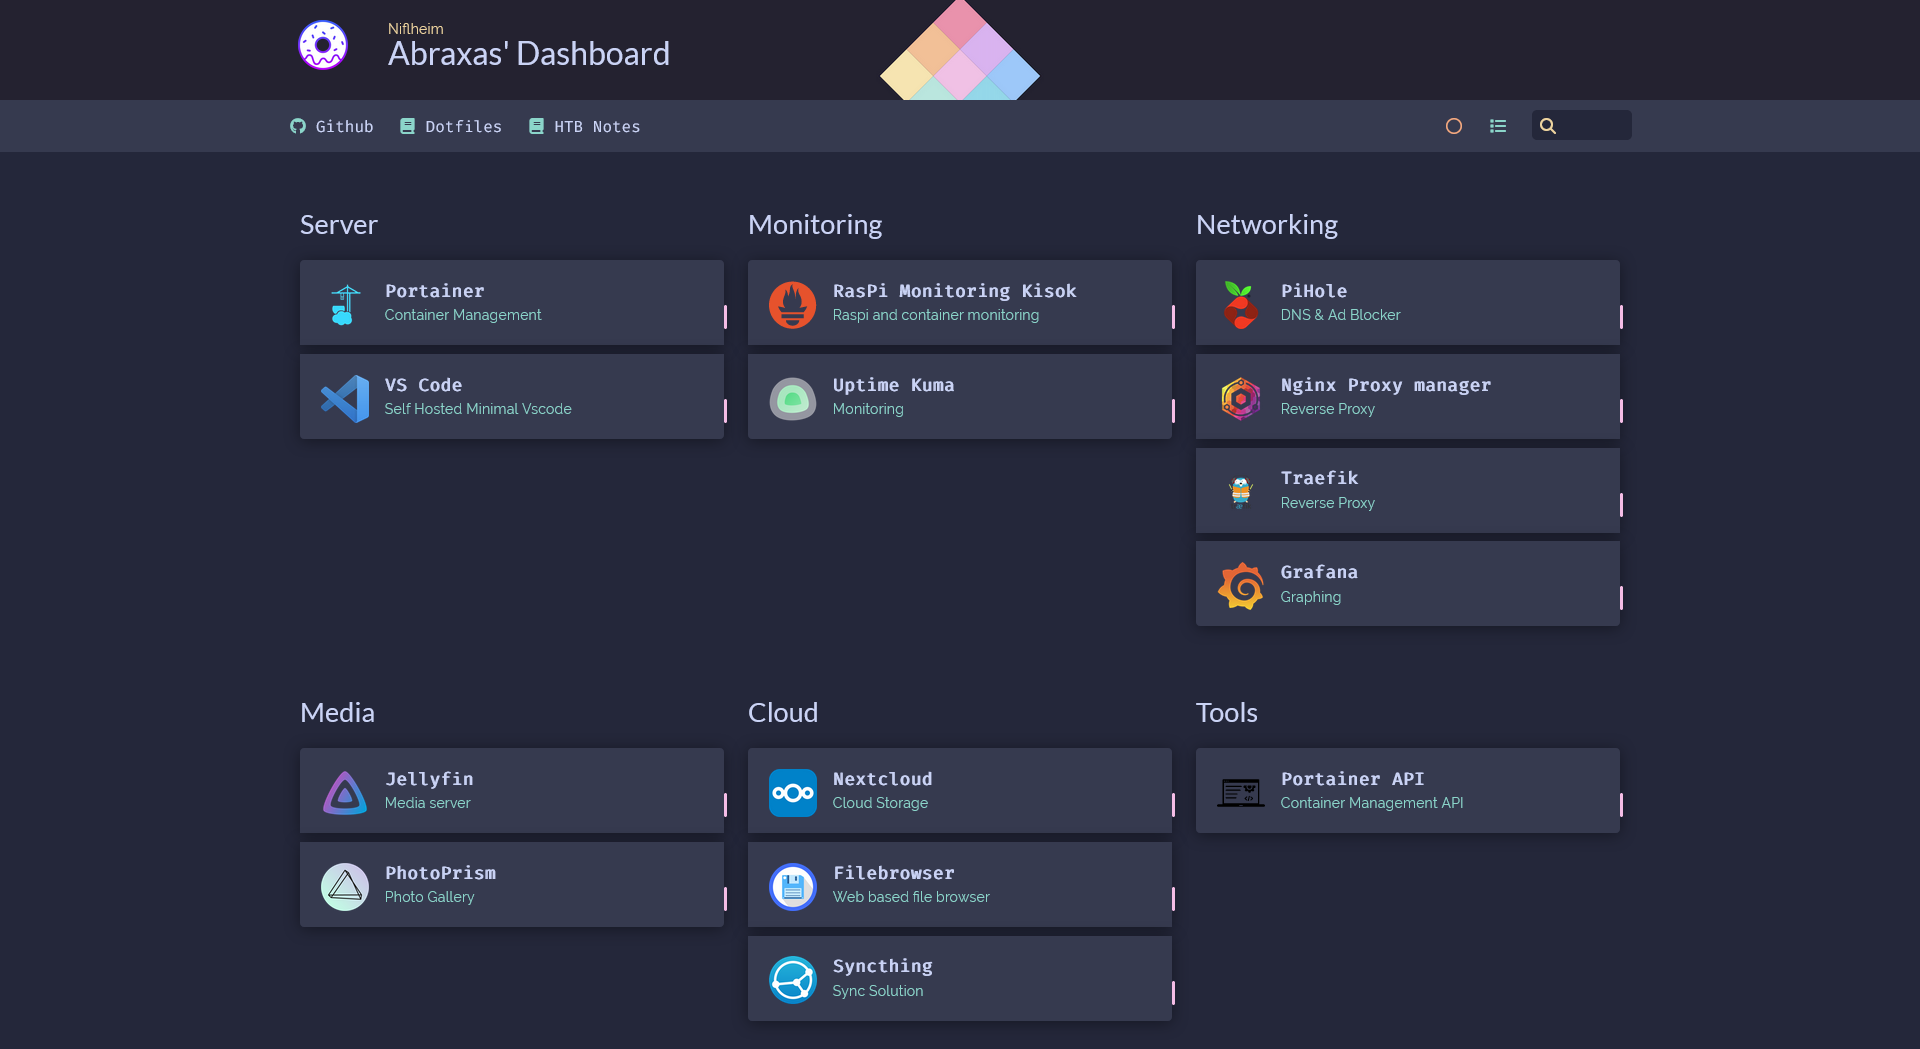
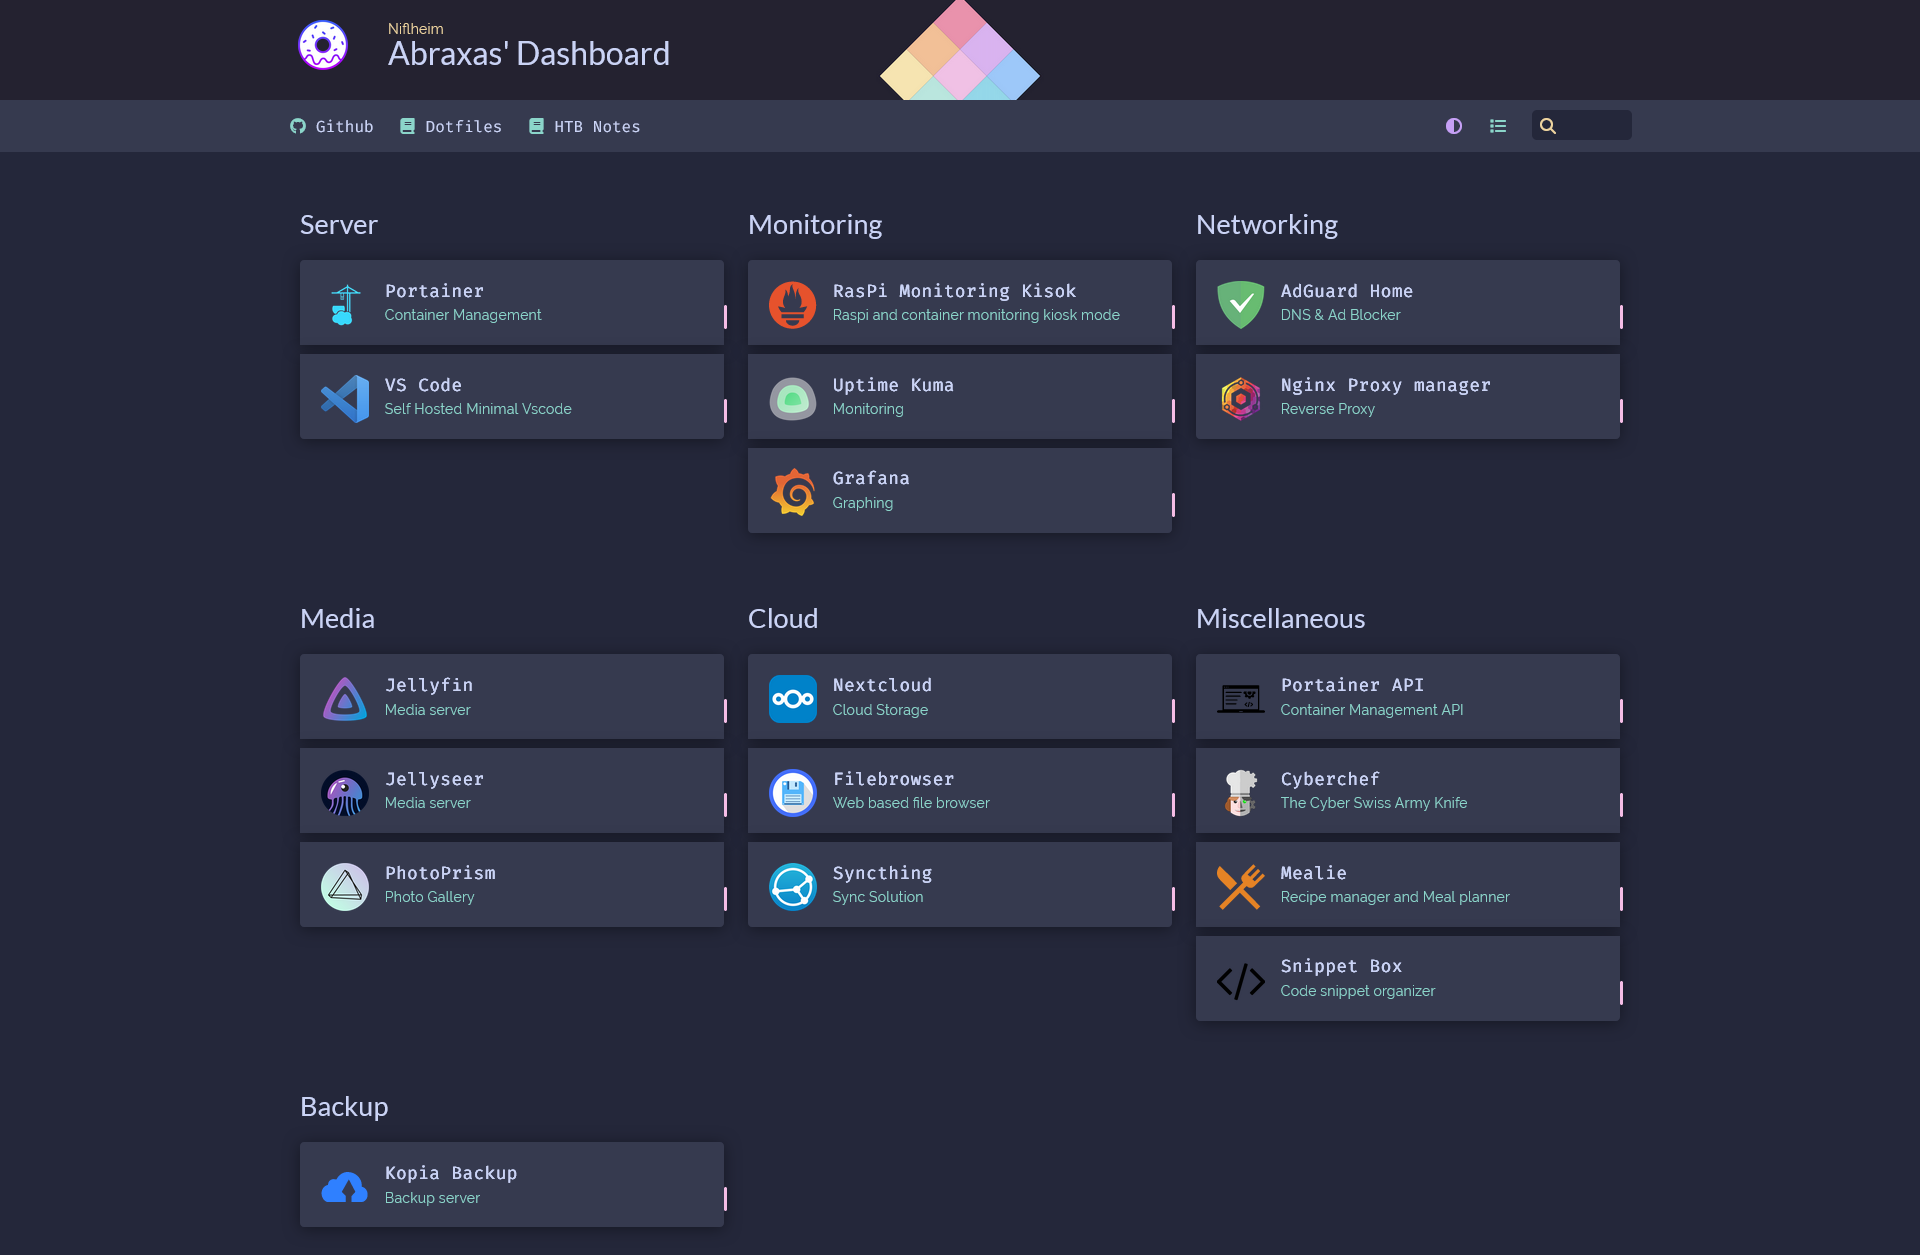
Update readme for arm devices cgroup bug
Update dashboard image and todos

diff --git a/README.md b/README.md
@@ -50,6 +50,20 @@ docker-compose up -d --force-recreate --remove-orphans
 
 Some conatiners need a `.env` file, there's a `.env.example` file to refer to for that. Same goes for `config.yml` if required
 
+### Docker cgroup mnemory issue fix
+
+On arm devices, enabling cgroud memory doesn't take effect.
+Adding this to `/boot/cmdline.txt` and rebooting should help fix the issue, [src](https://github.com/docker/for-linux/issues/1112)
+
+```txt
+cgroup_enable=cpuset cgroup_enable=memory cgroup_memory=1
+```
+
+Verify by running.
+```bash
+docker stats
+```
+
 ## Contributing
 
 Install pre-commit
@@ -69,8 +83,9 @@ pre-commit run --all-files --verbose
 ## ToDo
 
 -   [x] Switch pihole to AdGuard Home
--   [ ] Add watchdog to automatically update docker containers
+-   [x] Add watchdog to automatically update docker containers
 -   [ ] Setup Sonarr, Radarr and Jackett
 -   [ ] Switch to Traefik as the reverse proxy
--   [ ] Add wireguard configs
+-   [ ] ~~Add wireguard configs~~
+-   [x] Setup tailscale for remote access
 -   [ ] Setup VaultWarden
